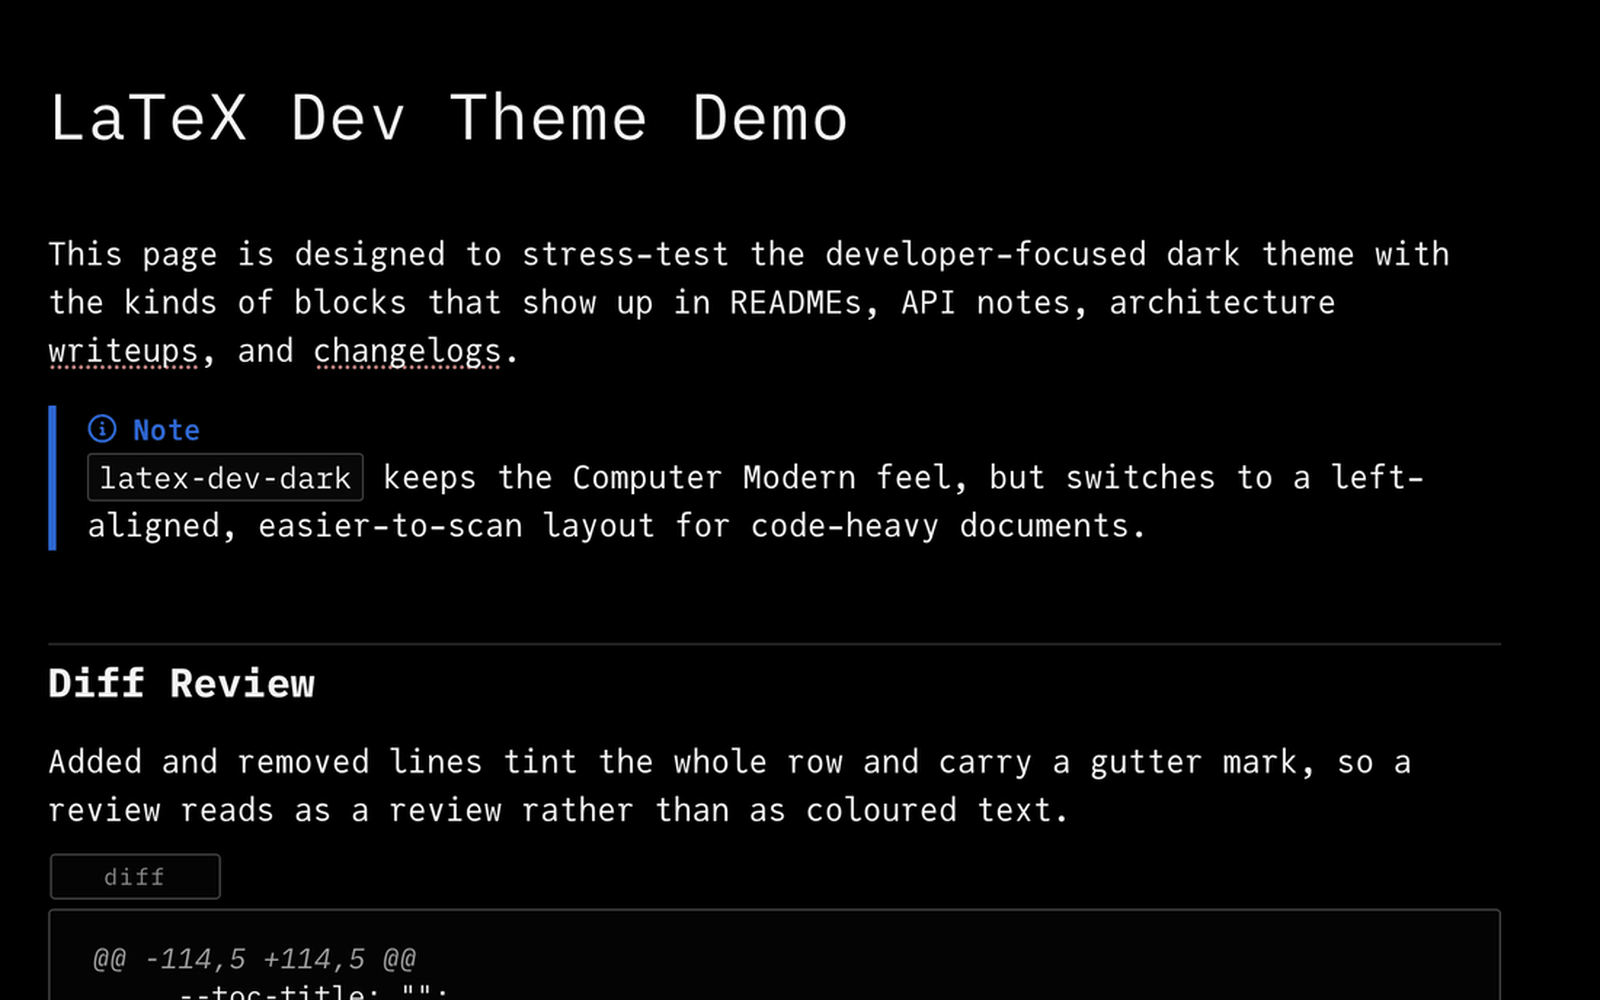
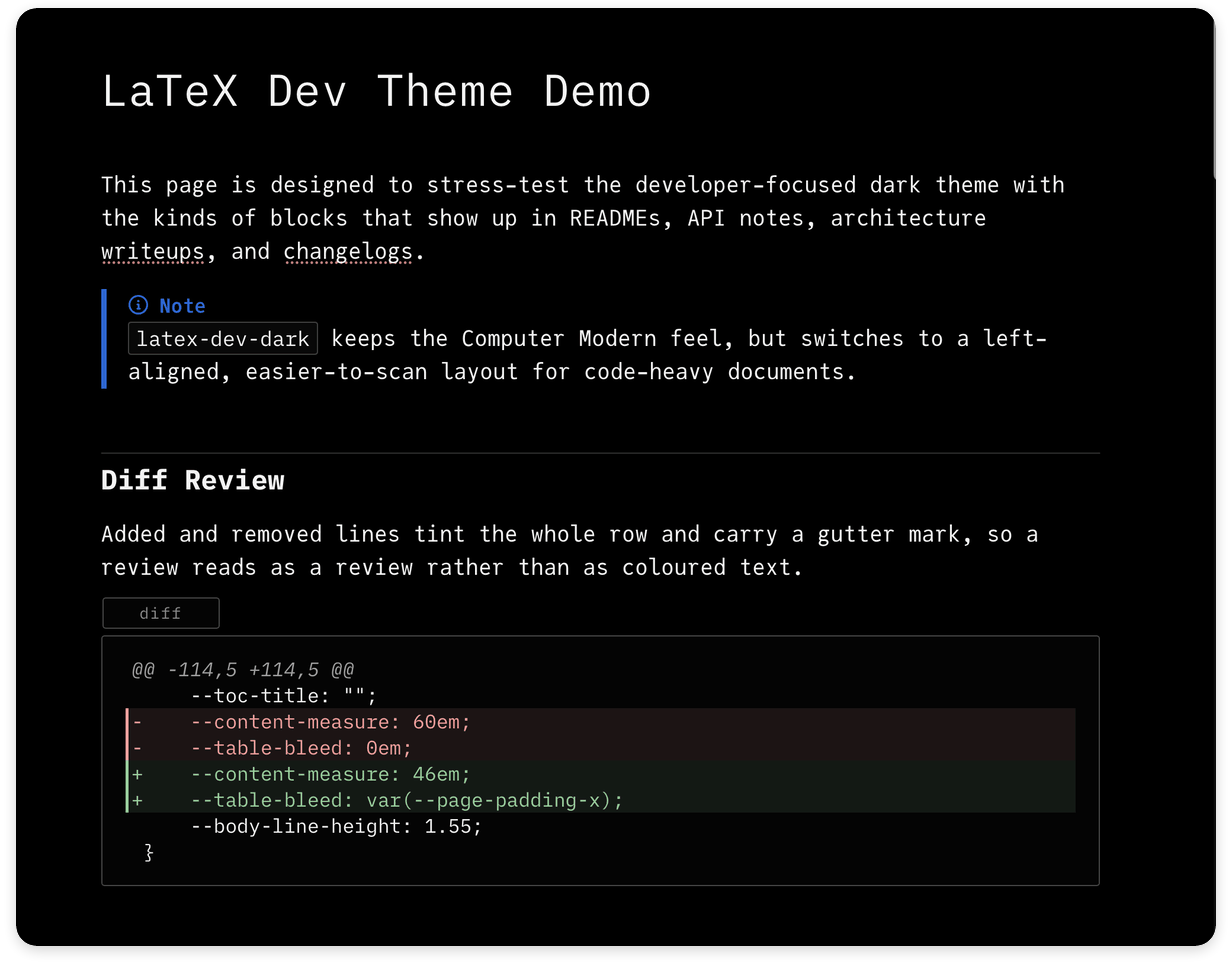
Use original repository screenshots

Changed region(s): [[0.0, 0.0, 1.0, 1.0], [0.8019, 0.5258, 0.8328, 0.5567]]

diff --git a/_posts/theme/2026-08-22-LaTeX-Typora-V2.md b/_posts/theme/2026-08-22-LaTeX-Typora-V2.md
@@ -15,9 +15,13 @@ typora-copy-images-to: ../../media/theme/latex-typora
 
 LaTeX Typora V2 gives long-form Markdown and technical documentation the typography and spacing of a LaTeX document. The family includes light and dark reading themes plus a developer-dark variant.
 
-![LaTeX Typora V2 in light and dark mode](/media/theme/latex-typora/v2-overview.png)
+![LaTeX Typora V2 light mode](/media/theme/latex-typora/v2-light.png)
 
-<p align="center">New Computer Modern in light and dark</p>
+<p align="center">Light mode with New Computer Modern</p>
+
+![LaTeX Typora V2 dark mode](/media/theme/latex-typora/v2-dark.png)
+
+<p align="center">Dark mode with the same document geometry</p>
 
 ## Made to read like a paper
 
